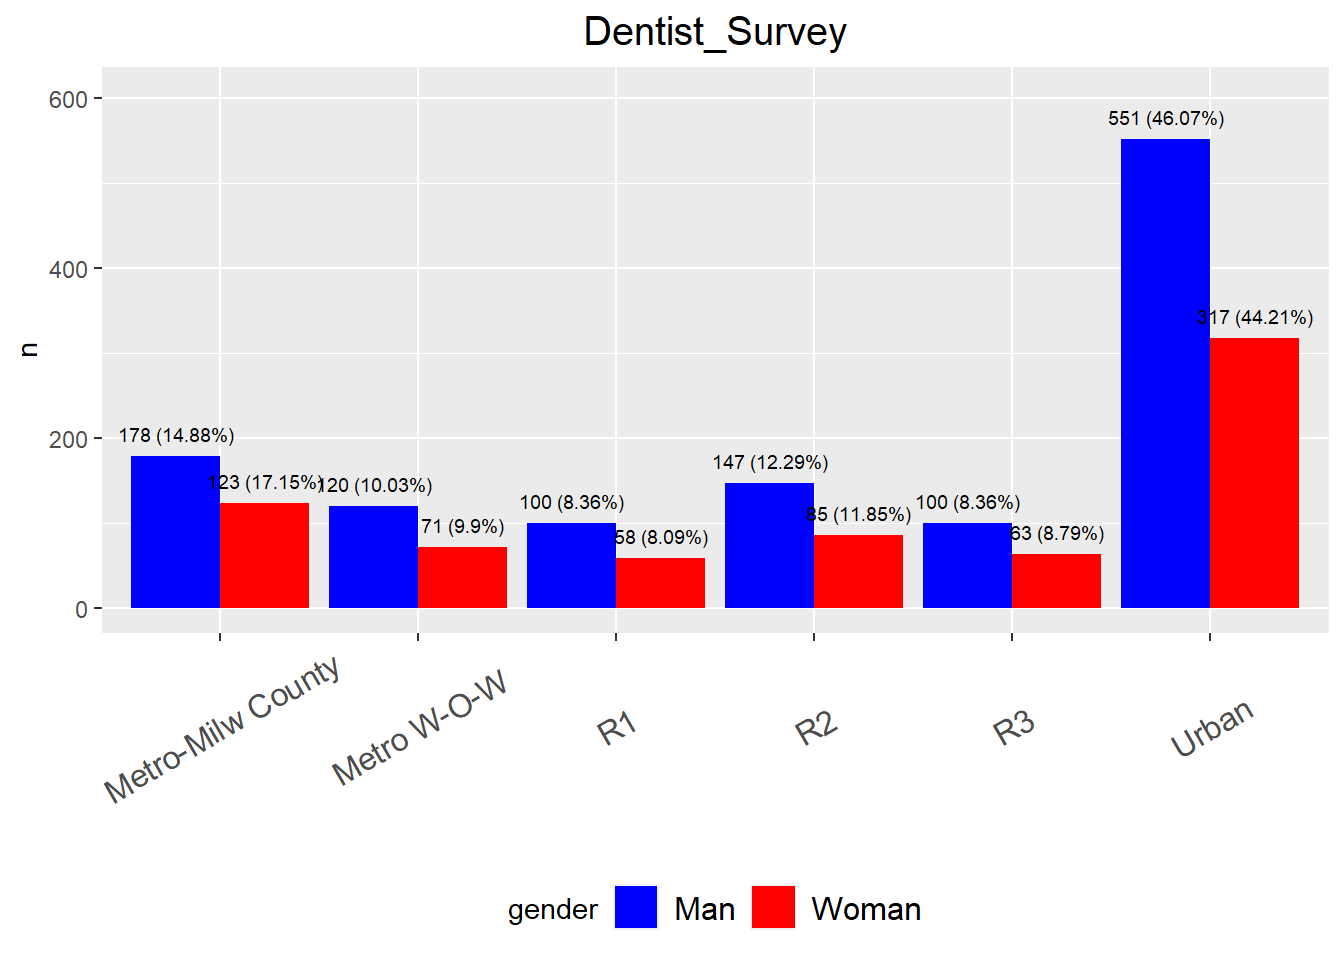
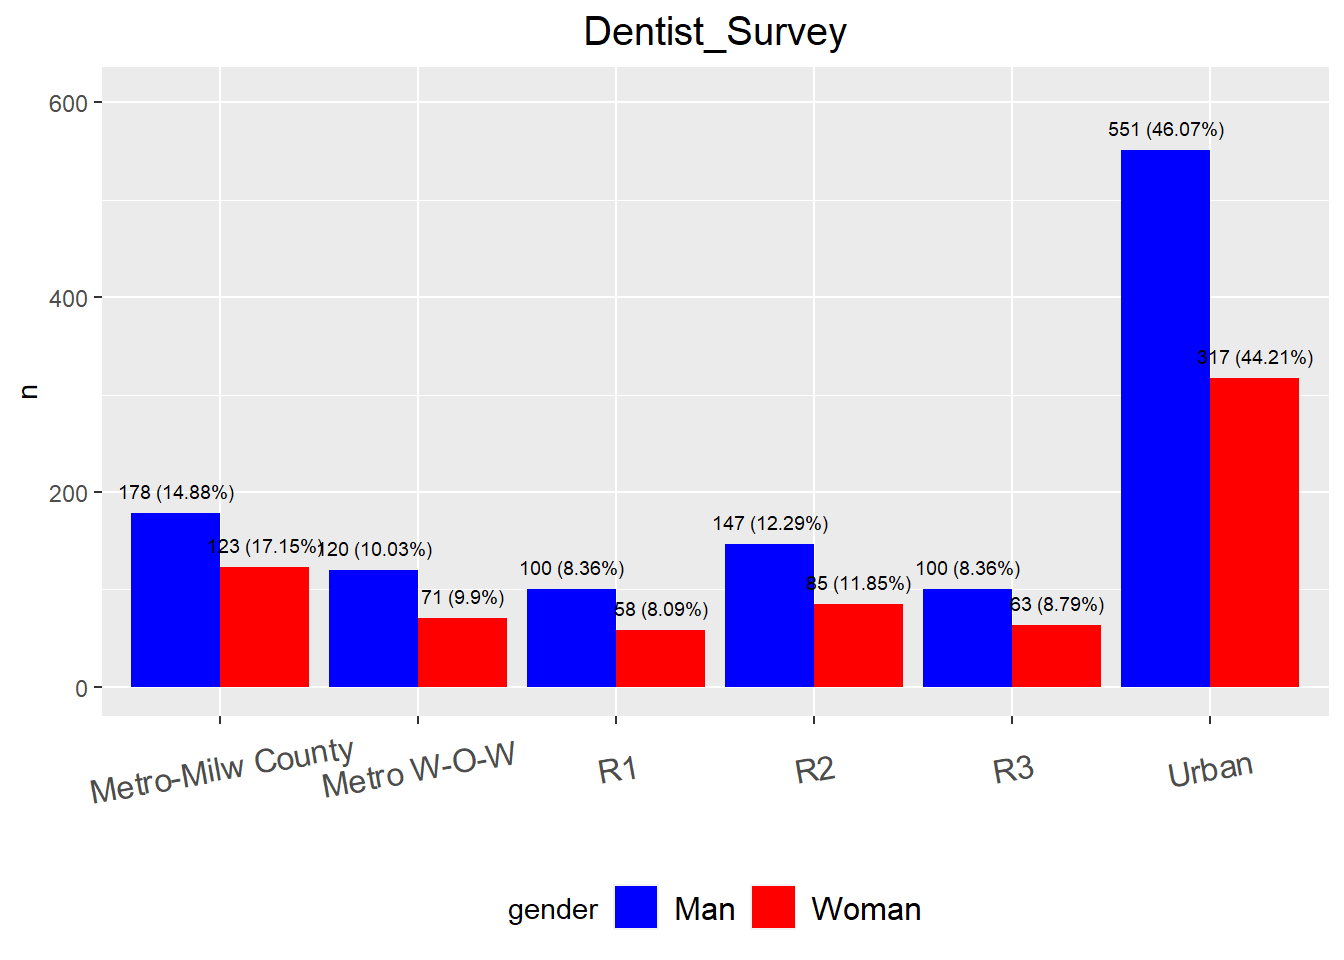
1/8/2025

diff --git a/docs/2024_0701_survey_part3_02_geographicaldistribution.html b/docs/2024_0701_survey_part3_02_geographicaldistribution.html
@@ -416,7 +416,7 @@ aria-hidden="true"></span> </a>
 <div class="tab-content">
 <div id="summary" class="tab-pane fade in active">
 <p>
-<strong>Last updated:</strong> 2025-01-07
+<strong>Last updated:</strong> 2025-01-08
 </p>
 <p>
 <strong>Checks:</strong> <span
@@ -550,15 +550,15 @@ project makes it easier to run your code on other machines.</p>
 <div class="panel panel-default">
 <div class="panel-heading">
 <p class="panel-title">
-<a data-toggle="collapse" data-parent="#workflowr-checks" href="#strongRepositoryversionstrongahrefhttpsgithubcomhan16Collaborationstree6f852a9b9fec0d9808f122fbf4e69c15912d8d6ftargetblank6f852a9a">
+<a data-toggle="collapse" data-parent="#workflowr-checks" href="#strongRepositoryversionstrongahrefhttpsgithubcomhan16Collaborationstree8ab1285c4302193885775c2fa04d2f2fbcc33dd3targetblank8ab1285a">
 <span class="glyphicon glyphicon-ok text-success"
 aria-hidden="true"></span> <strong>Repository version:</strong>
-<a href="https://github.com/han16/Collaborations/tree/6f852a9b9fec0d9808f122fbf4e69c15912d8d6f" target="_blank">6f852a9</a>
+<a href="https://github.com/han16/Collaborations/tree/8ab1285c4302193885775c2fa04d2f2fbcc33dd3" target="_blank">8ab1285</a>
 </a>
 </p>
 </div>
 <div
[2 lines of base64/hex data omitted]
 class="panel-collapse collapse">
 <div class="panel-body">
 <p>
@@ -568,7 +568,7 @@ reproducibility.
 </p>
 <p>
 The results in this page were generated with repository version
-<a href="https://github.com/han16/Collaborations/tree/6f852a9b9fec0d9808f122fbf4e69c15912d8d6f" target="_blank">6f852a9</a>.
+<a href="https://github.com/han16/Collaborations/tree/8ab1285c4302193885775c2fa04d2f2fbcc33dd3" target="_blank">8ab1285</a>.
 See the <em>Past versions</em> tab to see a history of the changes made
 to the R Markdown and HTML files.
 </p>
@@ -587,13 +587,9 @@ Ignored files:
     Ignored:    analysis/.Rhistory
     Ignored:    analysis/2022_Mar2_Marinho_cache/
 
-Untracked files:
-    Untracked:  analysis/2025.Rmd
-
 Unstaged changes:
-    Modified:   analysis/2024_0701_survey_part3.Rmd
     Modified:   analysis/2024_0701_survey_part3_02_geographicaldistribution.Rmd
-    Modified:   analysis/index.Rmd
+    Modified:   analysis/2025.Rmd
 
 </code></pre>
 <p>
@@ -641,6 +637,40 @@ Message
 </tr>
 </thead>
 <tbody>
+<tr>
+<td>
+Rmd
+</td>
+<td>
+<a href="https://github.com/han16/Collaborations/blob/8ab1285c4302193885775c2fa04d2f2fbcc33dd3/analysis/2024_0701_survey_part3_02_geographicaldistribution.Rmd" target="_blank">8ab1285</a>
+</td>
+<td>
+han
+</td>
+<td>
+2025-01-07
+</td>
+<td>
+1/7/2025
+</td>
+</tr>
+<tr>
+<td>
+html
+</td>
+<td>
+<a href="https://rawcdn.githack.com/han16/Collaborations/8ab1285c4302193885775c2fa04d2f2fbcc33dd3/docs/2024_0701_survey_part3_02_geographicaldistribution.html" target="_blank">8ab1285</a>
+</td>
+<td>
+han
+</td>
+<td>
+2025-01-07
+</td>
+<td>
+1/7/2025
+</td>
+</tr>
 <tr>
 <td>
 Rmd
@@ -795,8 +825,9 @@ datatable(extensions = &#39;Buttons&#39;,
 
 
 dentist_zip_in_dentist_only=sapply(zip_in_dentist_only, function(x) Dentist_Survey$`Dentist Survey` %&gt;% filter(`5-digit Zip code` %in% x)%&gt;% filter(`Gender Identity`==&quot;Man&quot; | `Gender Identity`==&quot;Woman&quot;) %&gt;% nrow())</code></pre>
-<div id="gender-identity" class="section level3">
-<h3>Gender Identity</h3>
+</div>
+<div id="gender-identity" class="section level2">
+<h2>Gender Identity</h2>
 <pre class="r"><code>gender_geo=sapply(region_code_zip, function(x) dentist_in_WI_of_interest1 %&gt;% filter(`5-digit Zip code` %in% x) %&gt;% select(`Gender Identity`))
 gender_prop=sapply(gender_geo, function(x) c(sum(x==&quot;Man&quot;, na.rm=T), sum(x==&quot;Woman&quot;, na.rm=T))) 
 gender_geo_data=data.frame(geo=rep(region_code_update,each=2), num=as.vector(gender_prop), gender=rep(c(&quot;Man&quot;, &quot;Woman&quot;), length(region_code_update))) %&gt;% drop_na()
@@ -809,9 +840,46 @@ prop[seq(1,11,by=2)]=gender_geo_data$num[seq(1,11,by=2)]/man_total
 prop[seq(2,12,by=2)]=gender_geo_data$num[seq(2,12,by=2)]/woman_total
 gender_geo_data=gender_geo_data %&gt;% mutate(prop=round(prop,4))
 
-fig=side_by_side_barplot(gender_geo_data, angle=30, num_size = 2.5, x_text_size=12, legend_text_size=12, title=&quot;Dentist_Survey&quot;, custom_colors= c(&quot;Woman&quot; = &quot;red&quot;, &quot;Man&quot; = &quot;blue&quot;))
+fig=side_by_side_barplot(gender_geo_data, angle=10, num_size = 2.5, x_text_size=12, legend_text_size=12, title=&quot;Dentist_Survey&quot;, custom_colors= c(&quot;Woman&quot; = &quot;red&quot;, &quot;Man&quot; = &quot;blue&quot;))
 fig</code></pre>
 <p><img src="figure/2024_0701_survey_part3_02_geographicaldistribution.Rmd/unnamed-chunk-12-1.png" width="672" style="display: block; margin: auto;" /></p>
+<p>
+<button type="button" class="btn btn-default btn-xs btn-workflowr btn-workflowr-fig" data-toggle="collapse" data-target="#fig-unnamed-chunk-12-1">
+Past versions of unnamed-chunk-12-1.png
+</button>
+</p>
+<div id="fig-unnamed-chunk-12-1" class="collapse">
+<div class="table-responsive">
+<table class="table table-condensed table-hover">
+<thead>
+<tr>
+<th>
+Version
+</th>
+<th>
+Author
+</th>
+<th>
+Date
+</th>
+</tr>
+</thead>
+<tbody>
+<tr>
+<td>
+<a href="https://github.com/han16/Collaborations/blob/8ab1285c4302193885775c2fa04d2f2fbcc33dd3/docs/figure/2024_0701_survey_part3_02_geographicaldistribution.Rmd/unnamed-chunk-12-1.png" target="_blank">8ab1285</a>
+</td>
+<td>
+han
+</td>
+<td>
+2025-01-07
+</td>
+</tr>
+</tbody>
+</table>
+</div>
+</div>
 <pre class="r"><code>gender_geo_data%&gt;%
 datatable(extensions = &#39;Buttons&#39;,
           caption = &quot;Dentist&quot;,
@@ -824,8 +892,8 @@ datatable(extensions = &#39;Buttons&#39;,
 <pre class="r"><code>sum(gender_geo_data$num)</code></pre>
 <pre><code>[1] 1913</code></pre>
 </div>
-<div id="specialty-distribution" class="section level3">
-<h3>specialty distribution</h3>
+<div id="specialty-distribution" class="section level2">
+<h2>specialty distribution</h2>
 <pre class="r"><code>specialty=c(&quot;General dentistry&quot;, &quot;Endodontics&quot;, &quot;Orthodontics&quot;,&quot;Periodontics&quot;,  &quot;Prosthodontics&quot;, &quot;Pediatric dentistry&quot;, &quot;Oral surgery&quot;)
 specialty_geo=sapply(region_code_zip, function(x) dentist_in_WI_of_interest1 %&gt;% filter(`5-digit Zip code` %in% x) %&gt;% filter(`Dental Specialties Board Certified` %in% specialty) %&gt;% select(`Dental Specialties Board Certified`))
 specialty_prop=sapply(specialty_geo, function(x) c(sum(x==&quot;General dentistry&quot;), sum(x==&quot;Endodontics&quot;), sum(x==&quot;Orthodontics&quot;), sum(x==&quot;Periodontics&quot;), sum(x==&quot;Prosthodontics&quot;), sum(x==&quot;Pediatric dentistry&quot;), sum(x==&quot;Oral surgery&quot;))) 
@@ -863,12 +931,123 @@ pie_chart[[i]]=ggplot(data=pie_data)+
 ggarrange(figures[[1]], figures[[2]], figures[[3]], figures[[4]], figures[[5]], figures[[6]], ncol=2)</code></pre>
 <pre><code>$`1`</code></pre>
 <p><img src="figure/2024_0701_survey_part3_02_geographicaldistribution.Rmd/unnamed-chunk-13-1.png" width="672" style="display: block; margin: auto;" /></p>
+<p>
+<button type="button" class="btn btn-default btn-xs btn-workflowr btn-workflowr-fig" data-toggle="collapse" data-target="#fig-unnamed-chunk-13-1">
+Past versions of unnamed-chunk-13-1.png
+</button>
+</p>
+<div id="fig-unnamed-chunk-13-1" class="collapse">
+<div class="table-responsive">
+<table class="table table-condensed table-hover">
+<thead>
+<tr>
+<th>
+Version
+</th>
+<th>
+Author
+</th>
+<th>
+Date
+</th>
+</tr>
+</thead>
+<tbody>
+<tr>
+<td>
+<a href="https://github.com/han16/Collaborations/blob/8ab1285c4302193885775c2fa04d2f2fbcc33dd3/docs/figure/2024_0701_survey_part3_02_geographicaldistribution.Rmd/unnamed-chunk-13-1.png" target="_blank">8ab1285</a>
+</td>
+<td>
+han
+</td>
+<td>
+2025-01-07
+</td>
+</tr>
+</tbody>
+</table>
+</div>
+</div>
 <pre><code>
 $`2`</code></pre>
 <p><img src="figure/2024_0701_survey_part3_02_geographicaldistribution.Rmd/unnamed-chunk-13-2.png" width="672" style="display: block; margin: auto;" /></p>
+<p>
+<button type="button" class="btn btn-default btn-xs btn-workflowr btn-workflowr-fig" data-toggle="collapse" data-target="#fig-unnamed-chunk-13-2">
+Past versions of unnamed-chunk-13-2.png
+</button>
+</p>
+<div id="fig-unnamed-chunk-13-2" class="collapse">
+<div class="table-responsive">
+<table class="table table-condensed table-hover">
+<thead>
+<tr>
+<th>
+Version
+</th>
+<th>
+Author
+</th>
+<th>
+Date
+</th>
+</tr>
+</thead>
+<tbody>
+<tr>
+<td>
+<a href="https://github.com/han16/Collaborations/blob/8ab1285c4302193885775c2fa04d2f2fbcc33dd3/docs/figure/2024_0701_survey_part3_02_geographicaldistribution.Rmd/unnamed-chunk-13-2.png" target="_blank">8ab1285</a>
+</td>
+<td>
+han
+</td>
+<td>
+2025-01-07
+</td>
+</tr>
+</tbody>
+</table>
+</div>
+</div>
 <pre><code>
 $`3`</code></pre>
 <p><img src="figure/2024_0701_survey_part3_02_geographicaldistribution.Rmd/unnamed-chunk-13-3.png" width="672" style="display: block; margin: auto;" /></p>
+<p>
+<button type="button" class="btn btn-default btn-xs btn-workflowr btn-workflowr-fig" data-toggle="collapse" data-target="#fig-unnamed-chunk-13-3">
+Past versions of unnamed-chunk-13-3.png
+</button>
+</p>
+<div id="fig-unnamed-chunk-13-3" class="collapse">
+<div class="table-responsive">
+<table class="table table-condensed table-hover">
+<thead>
+<tr>
+<th>
+Version
+</th>
+<th>
+Author
+</th>
+<th>
+Date
+</th>
+</tr>
+</thead>
+<tbody>
+<tr>
+<td>
+<a href="https://github.com/han16/Collaborations/blob/8ab1285c4302193885775c2fa04d2f2fbcc33dd3/docs/figure/2024_0701_survey_part3_02_geographicaldistribution.Rmd/unnamed-chunk-13-3.png" target="_blank">8ab1285</a>
+</td>
+<td>
+han
+</td>
+<td>
+2025-01-07
+</td>
+</tr>
+</tbody>
+</table>
+</div>
+</div>
 <pre><code>
 attr(,&quot;class&quot;)
 [1] &quot;list&quot;      &quot;ggarrange&quot;</code></pre>
@@ -883,6 +1062,10 @@ datatable(extensions = &#39;Buttons&#39;,
 <script type="application/json" data-for="htmlwidget-8e1fe96c0688a849169a">{"x":{"filter":"none","vertical":false,"extensions":["Buttons"],"caption":"<caption><\/caption>","data":[["1","2","3","4","5","6","7","8","9","10","11","12"],["R1","R1","Metro W-O-W","Metro W-O-W","Urban","Urban","R2","R2","R3","R3","Metro-Milw County","Metro-Milw County"],[100,58,120,71,551,317,147,85,100,63,178,123],["Man","Woman","Man","Woman","Man","Woman","Man","Woman","Man","Woman","Man","Woman"],[0.08359999999999999,0.0809,0.1003,0.099,0.4607,0.4421,0.1229,0.1185,0.08359999999999999,0.08790000000000001,0.1488,0.1715]],"container":"<table class=\"display\">\n  <thead>\n    <tr>\n      <th> <\/th>\n      <th>geo<\/th>\n      <th>num<\/th>\n      <th>gender<\/th>\n      <th>prop<\/th>\n    <\/tr>\n  <\/thead>\n<\/table>","options":{"dom":"Blfrtip","buttons":["copy","csv","excel","pdf","print"],"lengthMenu":[[10,25,50,-1],["10","25","50","All"]],"columnDefs":[{"className":"dt-right","targets":[2,4]},{"orderable":false,"targets":0},{"name":" ","targets":0},{"name":"geo","targets":1},{"name":"num","targets":2},{"name":"gender","targets":3},{"name":"prop","targets":4}],"order":[],"autoWidth":false,"orderClasses":false},"selection":{"mode":"multiple","selected":null,"target":"row","selectable":null}},"evals":[],"jsHooks":[]}</script>
 <pre class="r"><code>sum(gender_geo_data$num)</code></pre>
 <pre><code>[1] 1913</code></pre>
+</div>
+<div id="zip-codes" class="section level2">
+<h2>zip codes</h2>
+<pre class="r"><code>zip_code_details=multiplesheets(&quot;C:\\Shengtong\\Research\\AllCollaboration\\2024\\202407\\state_survey\\ZIP code details.xlsx&quot;)</code></pre>
 <br>
 <p>
 <button type="button" class="btn btn-default btn-workflowr btn-workflowr-sessioninfo" data-toggle="collapse" data-target="#workflowr-sessioninfo" style="display: block;">
@@ -955,7 +1138,6 @@ loaded via a namespace (and not attached):
 [79] digest_0.6.33        farver_2.1.1         htmlwidgets_1.6.4   
 [82] memoise_2.0.1        htmltools_0.5.7      lifecycle_1.0.4     
 [85] httr_1.4.7           mime_0.12           </code></pre>
-</div>
 </div>
 </div>
 
